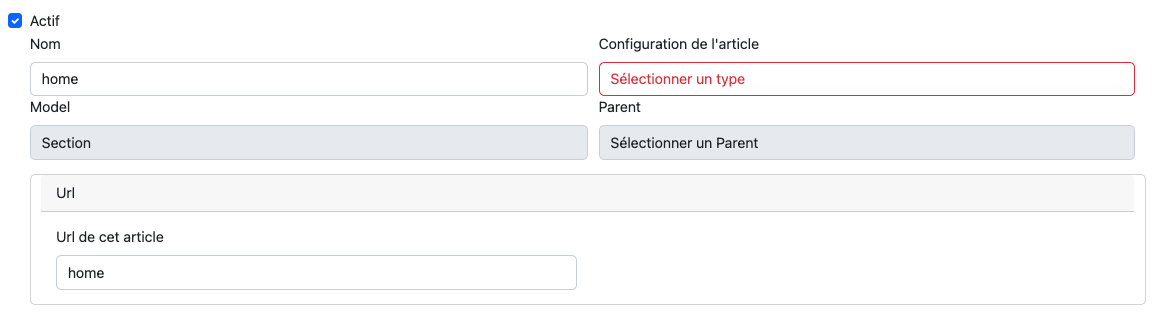
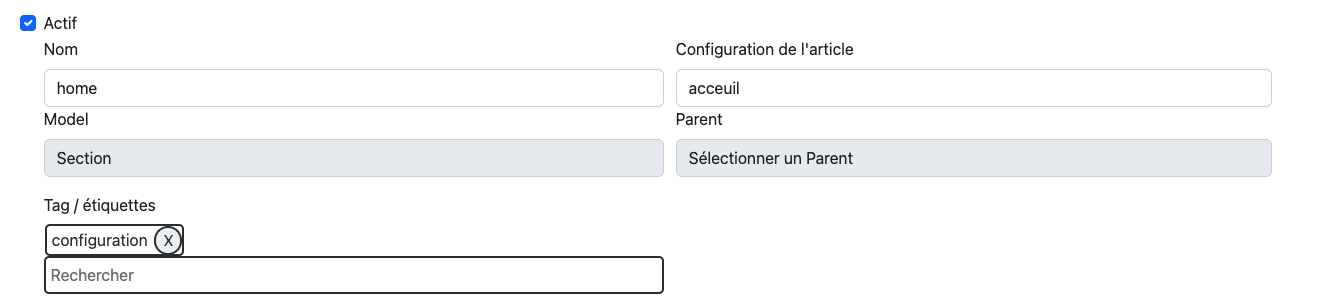
update docs

Changed region(s): [[0.0, 0.0298, 0.9821, 0.6258], [0.0307, 0.6556, 0.9514, 0.9834], [0.491, 0.8642, 0.5217, 0.894]]

diff --git a/src/Module.php b/src/Module.php
@@ -20,7 +20,6 @@ use fractalCms\content\helpers\SitemapBuilder;
 use fractalCms\content\console\InitController;
 use fractalCms\content\components\Constant;
 use fractalCms\core\components\Constant as CoreConstant;
-use fractalCms\core\models\Data;
 use fractalCms\content\models\Content;
 use Yii;
 use yii\base\BootstrapInterface;
@@ -124,17 +123,27 @@ class Module extends \yii\base\Module implements BootstrapInterface, FractalCmsC
         }
     }
 
-    public function getData() : Data
+    /**
+     * Get module name
+     *
+     * @return string
+     */
+    public function getName() : string
     {
-        $nbSections = Con::find()->andWhere(['type' => Content::TYPE_SECTION])->count();
+        return $this->name;
+    }
+
+
+    public function getInformations() : array
+    {
+        $nbSections = Content::find()->andWhere(['type' => Content::TYPE_SECTION])->count();
         $nbActicles = Content::find()->andWhere(['type' => Content::TYPE_ARTICLE])->count();
         $lastDate = Content::find()->max('dateCreate');
-        /** @var Data $data */
-        $data =  new Data(['scenario' => Data::SCENARIO_CREATE]);
-        $data->nbSections = $nbSections;
-        $data->nbActicles = $nbActicles;
-        $data->lastDate = $lastDate;
-        return $data;
+        return [
+            'Nombre de sections' => $nbSections,
+            'Nombre d\'articles' => $nbActicles,
+            'Dernière modification' => Yii::$app->formatter->asDate($lastDate)
+        ];
     }
 
     /**

diff --git a/src/docs/02-initialisation.md b/src/docs/02-initialisation.md
@@ -5,17 +5,17 @@
 ### Create Rbac (create role and permission)
 
 ``
-php yii.php fractalCms\content:rbac/index
+php yii.php fractalCms:rbac/index
 ``
 
 ### Create Admin (create first admin)
 ``
-php yii.php fractalCms\content:admin/create
+php yii.php fractalCms:admin/create
 ``
 ### INIT content (create initial content)
 
 ``
-php yii.php fractalCms\content:init/index
+php yii.php fractalCmsContent:init/index
 ``
 
 ## Config application
@@ -25,6 +25,7 @@ php yii.php fractalCms\content:init/index
 ````php 
     'bootstrap' => [
         'fractal-cms',
+        'fractal-cms-content',
         //../..
     ],
     'modules' => [

diff --git a/src/docs/05-content.md b/src/docs/05-content.md
@@ -32,6 +32,7 @@ La création se réalise en cliquant sur le bouton 'Ajouter'.
 * Model : indique si l'article est une **section** ou un **article**
 * Parent : Hiérarchie de l'article
 * Url : Url à partir de laquelle l'article sera accessible sur le front
+* Tag/étiquettes : Etiquette destiner à "marquer" cet article (voir : [Gestion des étiquettes(Tag)](./05-content.md#gestion-des-étiquettestag))
 
 ##### Configuration de l'article
 

diff --git a/src/docs/01-installation.md b/src/docs/01-installation.md
@@ -14,8 +14,17 @@
 
 ## Installation via Composer
 
+### Prérequis
+
+Attention le composant fractal-cms-content est un module tierce, il ne peut vivre que en complément
+de fractal-cms-core. Il est nécessaire d'ajouter le composant webcraftdg\fractal-cms-core
+
 ``
-composer require dghyse\fractal-cms-content
+composer require webcraftdg\fractal-cms-core
+``
+
+``
+composer require webcraftdg\fractal-cms-content
 ``
 
 ### build dist
